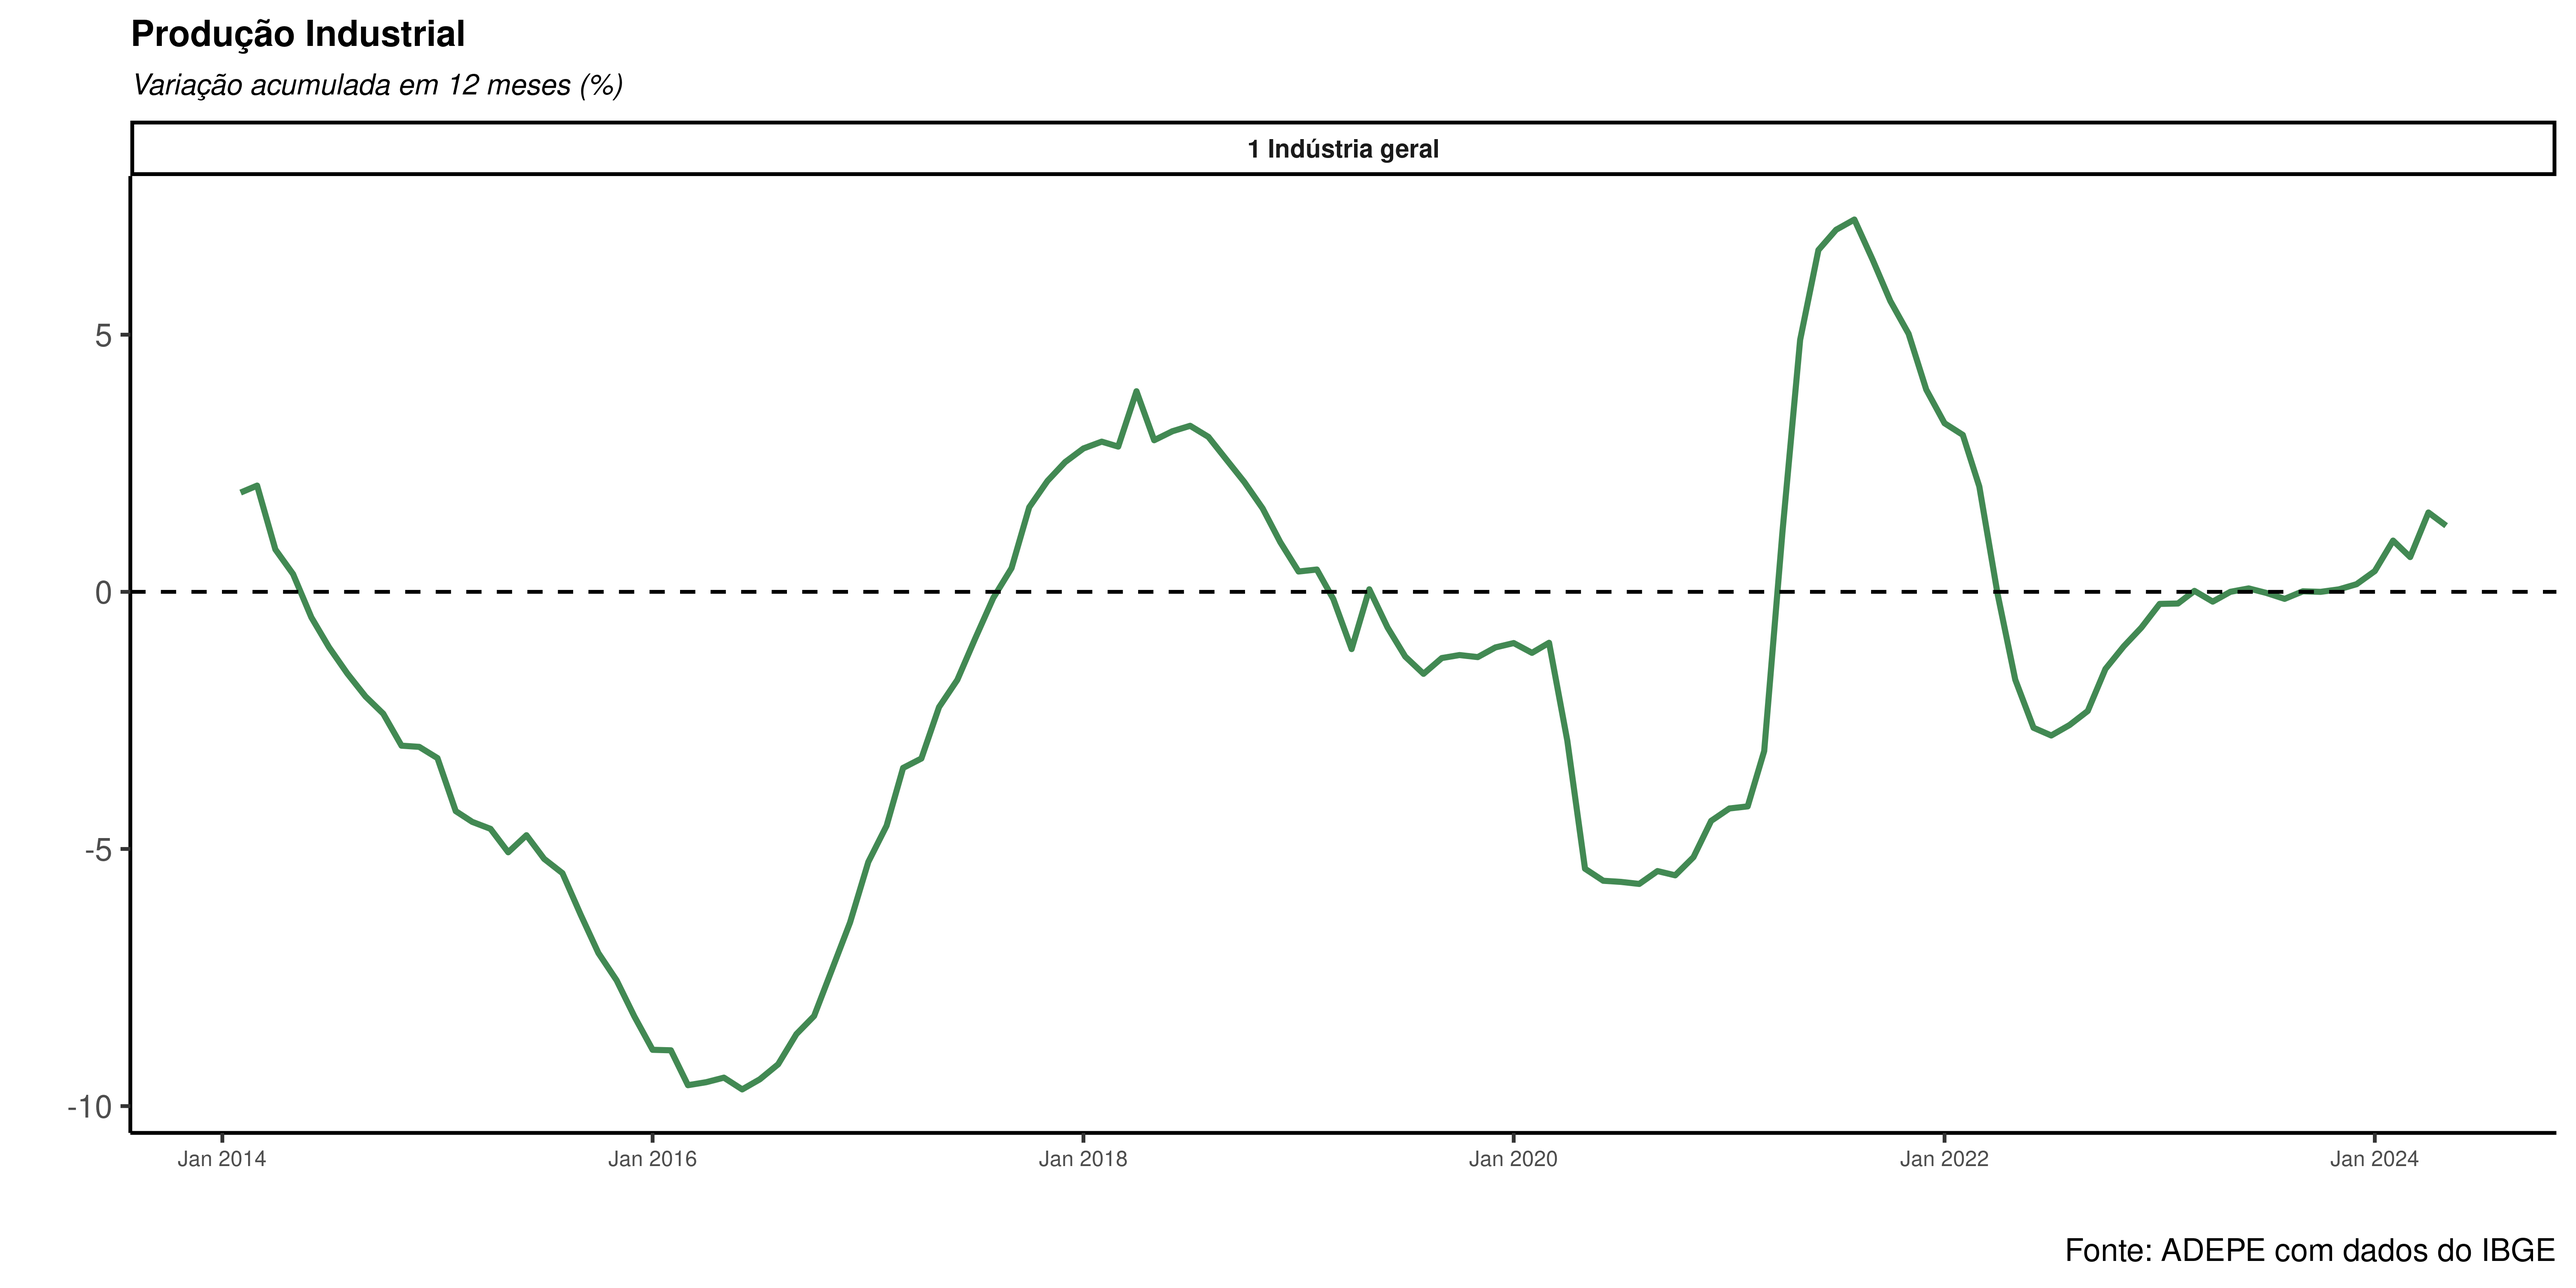
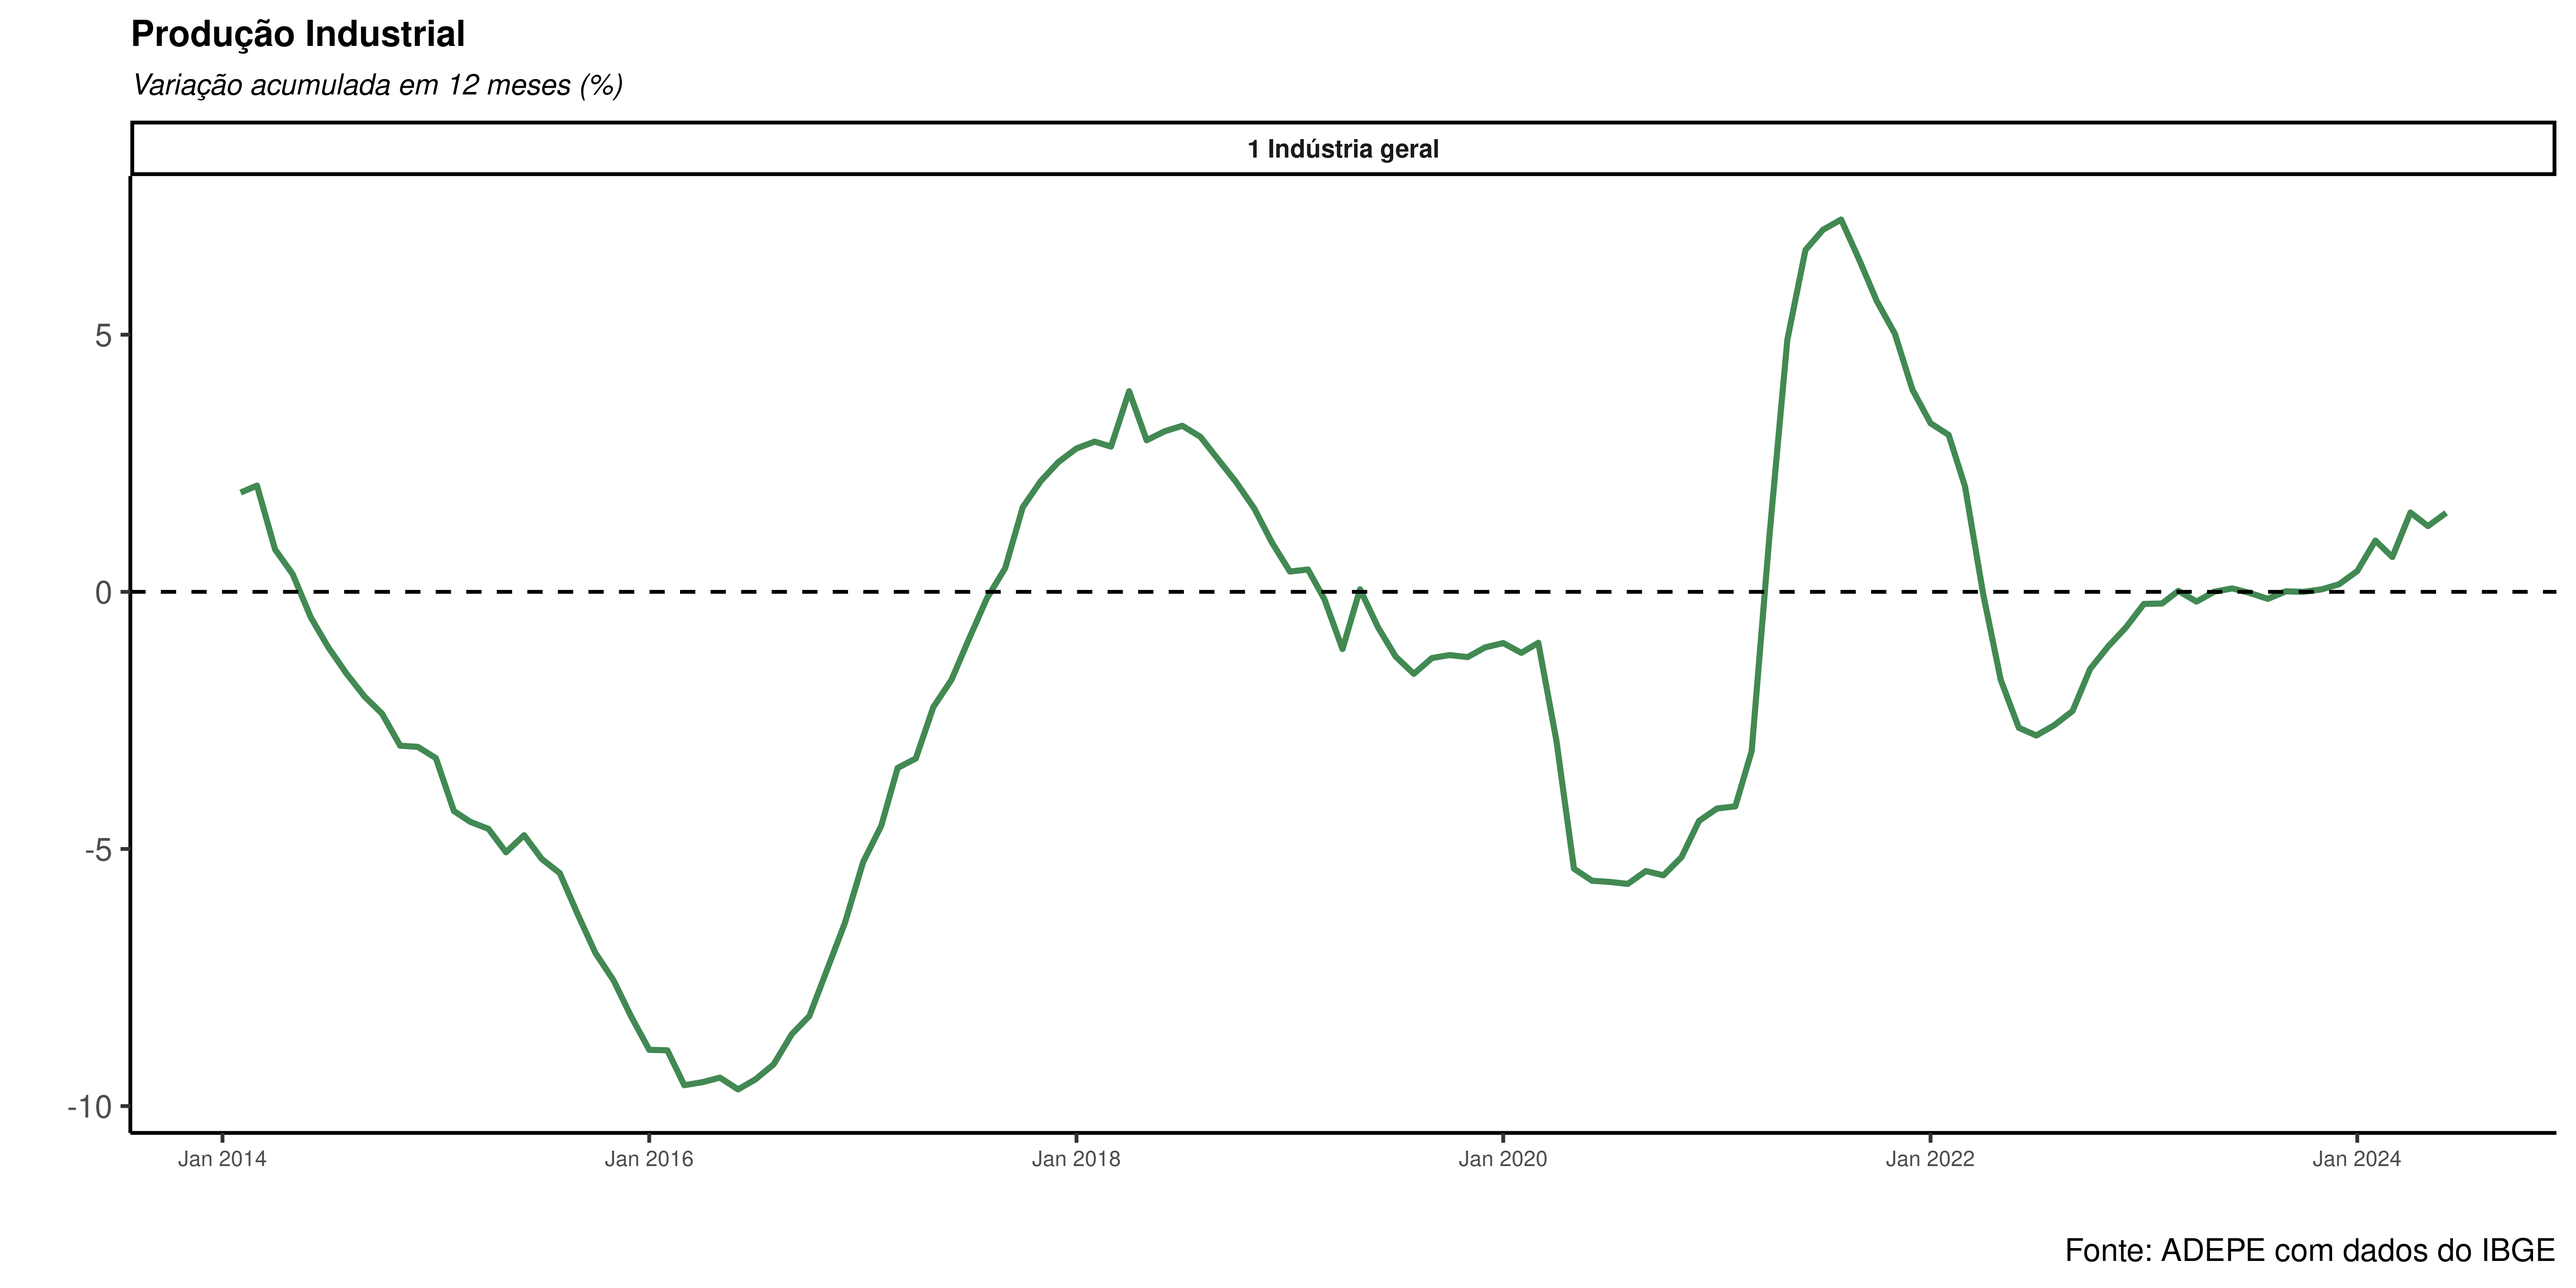
Atualização de relatório automatizada

diff --git a/pim/pim.html b/pim/pim.html
@@ -388,40 +388,40 @@ Núcleo de Dados <br><span style="font-size: 70%;">ADEPE<br><a href="https://git
 </thead>
 <tbody>
 <tr class="odd">
-<td style="text-align: center;">Dec 2023</td>
-<td style="text-align: center;">1.06</td>
-<td style="text-align: center;">3.73</td>
-<td style="text-align: center;">0.53</td>
-</tr>
-<tr class="even">
 <td style="text-align: center;">Jan 2024</td>
-<td style="text-align: center;">-1.13</td>
-<td style="text-align: center;">-6.86</td>
-<td style="text-align: center;">-0.16</td>
+<td style="text-align: center;">-0.79</td>
+<td style="text-align: center;">-6.69</td>
+<td style="text-align: center;">0.23</td>
 </tr>
-<tr class="odd">
+<tr class="even">
 <td style="text-align: center;">Feb 2024</td>
-<td style="text-align: center;">0.07</td>
-<td style="text-align: center;">-1.32</td>
-<td style="text-align: center;">0.47</td>
-</tr>
-<tr class="even">
-<td style="text-align: center;">Mar 2024</td>
-<td style="text-align: center;">1.08</td>
-<td style="text-align: center;">0.59</td>
-<td style="text-align: center;">1.24</td>
+<td style="text-align: center;">0.20</td>
+<td style="text-align: center;">-1.25</td>
+<td style="text-align: center;">0.60</td>
 </tr>
 <tr class="odd">
-<td style="text-align: center;">Apr 2024</td>
-<td style="text-align: center;">-0.84</td>
-<td style="text-align: center;">-3.24</td>
-<td style="text-align: center;">0.02</td>
+<td style="text-align: center;">Mar 2024</td>
+<td style="text-align: center;">0.95</td>
+<td style="text-align: center;">0.68</td>
+<td style="text-align: center;">0.88</td>
 </tr>
 <tr class="even">
+<td style="text-align: center;">Apr 2024</td>
+<td style="text-align: center;">-0.31</td>
+<td style="text-align: center;">-3.64</td>
+<td style="text-align: center;">0.35</td>
+</tr>
+<tr class="odd">
 <td style="text-align: center;">May 2024</td>
-<td style="text-align: center;">-0.92</td>
-<td style="text-align: center;">2.60</td>
-<td style="text-align: center;">-2.23</td>
+<td style="text-align: center;">-1.54</td>
+<td style="text-align: center;">3.36</td>
+<td style="text-align: center;">-2.54</td>
+</tr>
+<tr class="even">
+<td style="text-align: center;">Jun 2024</td>
+<td style="text-align: center;">4.13</td>
+<td style="text-align: center;">2.48</td>
+<td style="text-align: center;">4.48</td>
 </tr>
 </tbody>
 </table>
@@ -449,40 +449,40 @@ Núcleo de Dados <br><span style="font-size: 70%;">ADEPE<br><a href="https://git
 </thead>
 <tbody>
 <tr class="odd">
-<td style="text-align: center;">Dec 2023</td>
-<td style="text-align: center;">0.93</td>
-<td style="text-align: center;">17.51</td>
-<td style="text-align: center;">-2.25</td>
-</tr>
-<tr class="even">
 <td style="text-align: center;">Jan 2024</td>
 <td style="text-align: center;">3.67</td>
 <td style="text-align: center;">6.92</td>
 <td style="text-align: center;">3.06</td>
 </tr>
-<tr class="odd">
+<tr class="even">
 <td style="text-align: center;">Feb 2024</td>
 <td style="text-align: center;">5.50</td>
 <td style="text-align: center;">5.34</td>
 <td style="text-align: center;">5.52</td>
 </tr>
-<tr class="even">
+<tr class="odd">
 <td style="text-align: center;">Mar 2024</td>
 <td style="text-align: center;">-2.85</td>
 <td style="text-align: center;">1.61</td>
 <td style="text-align: center;">-3.62</td>
 </tr>
-<tr class="odd">
+<tr class="even">
 <td style="text-align: center;">Apr 2024</td>
-<td style="text-align: center;">8.43</td>
+<td style="text-align: center;">8.42</td>
 <td style="text-align: center;">-1.57</td>
-<td style="text-align: center;">10.25</td>
+<td style="text-align: center;">10.24</td>
+</tr>
+<tr class="odd">
+<td style="text-align: center;">May 2024</td>
+<td style="text-align: center;">-1.08</td>
+<td style="text-align: center;">-0.21</td>
+<td style="text-align: center;">-1.24</td>
 </tr>
 <tr class="even">
-<td style="text-align: center;">May 2024</td>
-<td style="text-align: center;">-1.01</td>
-<td style="text-align: center;">-0.19</td>
-<td style="text-align: center;">-1.15</td>
+<td style="text-align: center;">Jun 2024</td>
+<td style="text-align: center;">3.20</td>
+<td style="text-align: center;">0.93</td>
+<td style="text-align: center;">3.62</td>
 </tr>
 </tbody>
 </table>
@@ -510,40 +510,40 @@ Núcleo de Dados <br><span style="font-size: 70%;">ADEPE<br><a href="https://git
 </thead>
 <tbody>
 <tr class="odd">
-<td style="text-align: center;">2023-12-01</td>
-<td style="text-align: center;">0.15</td>
-<td style="text-align: center;">7.07</td>
-<td style="text-align: center;">-1.03</td>
-</tr>
-<tr class="even">
 <td style="text-align: center;">2024-01-01</td>
 <td style="text-align: center;">0.40</td>
 <td style="text-align: center;">7.46</td>
 <td style="text-align: center;">-0.80</td>
 </tr>
-<tr class="odd">
+<tr class="even">
 <td style="text-align: center;">2024-02-01</td>
 <td style="text-align: center;">1.00</td>
 <td style="text-align: center;">7.51</td>
 <td style="text-align: center;">-0.12</td>
 </tr>
-<tr class="even">
+<tr class="odd">
 <td style="text-align: center;">2024-03-01</td>
 <td style="text-align: center;">0.68</td>
 <td style="text-align: center;">7.36</td>
 <td style="text-align: center;">-0.47</td>
 </tr>
-<tr class="odd">
+<tr class="even">
 <td style="text-align: center;">2024-04-01</td>
 <td style="text-align: center;">1.54</td>
 <td style="text-align: center;">7.09</td>
 <td style="text-align: center;">0.58</td>
 </tr>
-<tr class="even">
+<tr class="odd">
 <td style="text-align: center;">2024-05-01</td>
-<td style="text-align: center;">1.29</td>
-<td style="text-align: center;">6.08</td>
-<td style="text-align: center;">0.45</td>
+<td style="text-align: center;">1.28</td>
+<td style="text-align: center;">6.07</td>
+<td style="text-align: center;">0.44</td>
+</tr>
+<tr class="even">
+<td style="text-align: center;">2024-06-01</td>
+<td style="text-align: center;">1.54</td>
+<td style="text-align: center;">5.23</td>
+<td style="text-align: center;">0.88</td>
 </tr>
 </tbody>
 </table>
